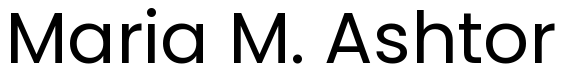
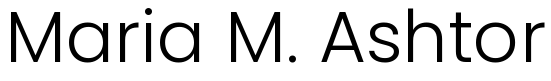
Use Poppins Light for name, enlarge photo to match original ratio
- Name now uses Poppins Light (300) — thinner strokes matching the PNG
- Profile photo increased from 180px to 230px to match the original
  image-to-text ratio where the photo is the dominant element
- Title remains Poppins Thin (100)

https://claude.ai/code/session_01V5Myswp5cvX6Yk64wvxFrU

diff --git a/signature.html b/signature.html
@@ -1,30 +1,30 @@
-<table cellpadding="0" cellspacing="0" border="0" style="font-family: 'Poppins', Arial, Helvetica, sans-serif; color: #000000; max-width: 560px;">
+<table cellpadding="0" cellspacing="0" border="0" style="font-family: 'Poppins', Arial, Helvetica, sans-serif; color: #000000; max-width: 600px;">
   <tr>
-    <!-- Circular profile photo -->
-    <td valign="top" style="padding-right: 25px; padding-top: 10px;">
+    <!-- Circular profile photo — larger to match original ratio -->
+    <td valign="top" style="padding-right: 28px; padding-top: 6px;">
       <img src="https://raw.githubusercontent.com/merimuste/signature/main/cropped_circle_image.png"
            alt="Maria M. Ashtor"
-           width="180" height="180"
+           width="230" height="230"
            style="border-radius: 50%; display: block; object-fit: cover;" />
     </td>
     <!-- Signature text content -->
-    <td valign="top" style="padding-top: 14px;">
+    <td valign="top" style="padding-top: 18px;">
       <table cellpadding="0" cellspacing="0" border="0">
-        <!-- Name (rendered as image in Poppins SemiBold) -->
+        <!-- Name (Poppins Light) -->
         <tr>
           <td colspan="2" style="padding-bottom: 4px;">
             <img src="https://raw.githubusercontent.com/merimuste/signature/claude/gmail-signature-link-P9oOy/icons/name_text.png"
                  alt="Maria M. Ashtor"
-                 width="280" height="41"
+                 width="275" height="41"
                  style="display: block;" />
           </td>
         </tr>
-        <!-- Title (rendered as image in Poppins Regular with letter spacing) -->
+        <!-- Title (Poppins Thin with letter spacing) -->
         <tr>
-          <td colspan="2" style="padding-bottom: 18px;">
+          <td colspan="2" style="padding-bottom: 20px;">
             <img src="https://raw.githubusercontent.com/merimuste/signature/claude/gmail-signature-link-P9oOy/icons/title_text.png"
                  alt="B2B Sales"
-                 width="145" height="30"
+                 width="140" height="30"
                  style="display: block;" />
           </td>
         </tr>

diff --git a/generate_text_images.py b/generate_text_images.py
@@ -11,7 +11,7 @@ os.makedirs(FONT_DIR, exist_ok=True)
 
 # Download Poppins font files from Google Fonts
 FONTS = {
-    "Poppins-Regular.ttf": "https://github.com/google/fonts/raw/main/ofl/poppins/Poppins-Regular.ttf",
+    "Poppins-Light.ttf": "https://github.com/google/fonts/raw/main/ofl/poppins/Poppins-Light.ttf",
     "Poppins-Thin.ttf": "https://github.com/google/fonts/raw/main/ofl/poppins/Poppins-Thin.ttf",
 }
 
@@ -25,17 +25,17 @@ for name, url in FONTS.items():
             f.write(r.content)
         print(f"  Saved to {path}")
 
-# ── Render "Maria M. Ashtor" in Poppins Regular ──────────────────
-font_regular = ImageFont.truetype(os.path.join(FONT_DIR, "Poppins-Regular.ttf"), 72)
+# ── Render "Maria M. Ashtor" in Poppins Light ────────────────────
+font_light = ImageFont.truetype(os.path.join(FONT_DIR, "Poppins-Light.ttf"), 72)
 text_name = "Maria M. Ashtor"
 
-bbox = font_regular.getbbox(text_name)
+bbox = font_light.getbbox(text_name)
 text_w = bbox[2] - bbox[0] + 10
 text_h = bbox[3] - bbox[1] + 10
 
 img = Image.new("RGBA", (text_w, text_h + 16), (255, 255, 255, 0))
 draw = ImageDraw.Draw(img)
-draw.text((-bbox[0] + 5, -bbox[1] + 8), text_name, fill="black", font=font_regular)
+draw.text((-bbox[0] + 5, -bbox[1] + 8), text_name, fill="black", font=font_light)
 img.save(os.path.join(OUT_DIR, "name_text.png"))
 print(f"Name image: {text_w}x{text_h + 16}")
 
@@ -66,4 +66,4 @@ for ch in text_title:
 img2.save(os.path.join(OUT_DIR, "title_text.png"))
 print(f"Title image: {total_w}x{title_h + 10}")
 
-print("Done! Text images generated with Poppins Regular + Thin.")
+print("Done! Text images generated with Poppins Light + Thin.")
